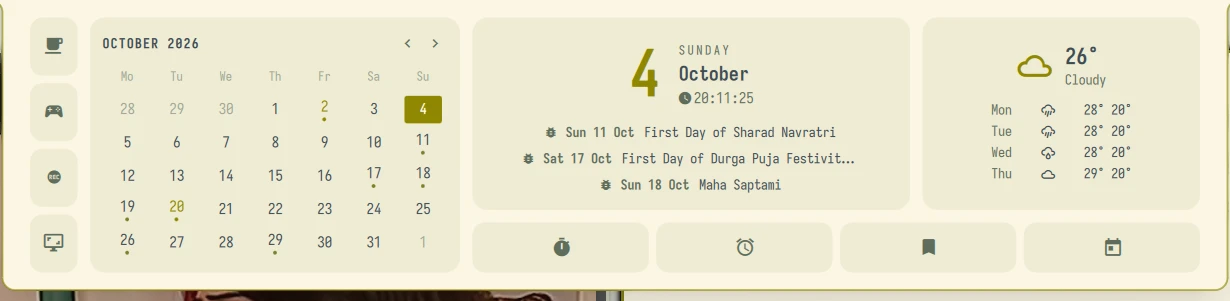
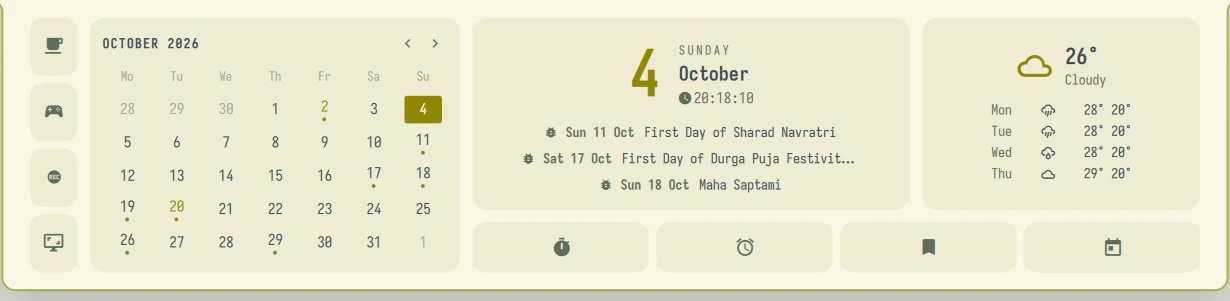
Power panel back to one row; short notifications keep the resting width; clock panel screenshot on a blank screen

diff --git a/dots/.config/quickshell/PowerPanel.qml b/dots/.config/quickshell/PowerPanel.qml
@@ -2,7 +2,6 @@
 // (sleep, then hibernate later when Settings > Power says so); Hibernate shows only when it is set up.
 // Lock = the Quickshell lock screen (Lock.qml). Log out / Reboot / Power off need a second
 // click within 3 s (the button turns red and says "Confirm?"). done() closes the notch after an action.
-// Second row: Keep awake and Game mode switches (Modes.qml), LED keys: the LED is lit while on.
 import QtQuick
 import Quickshell
 import Quickshell.Io
@@ -85,63 +84,5 @@ Item {
                 }
             }
         }
-    }
-
-    // ---------- switches: keep awake, game mode ----------
-    Row {
-        id: modesRow
-        anchors.left: parent.left; anchors.leftMargin: 22
-        anchors.top: row.bottom; anchors.topMargin: 10
-        spacing: 10
-        Repeater {
-            model: [
-                { id: "awake", icon: "", name: "Keep awake", on: Modes.awake, toggle: () => Modes.setAwake(!Modes.awake) },
-                { id: "game",  icon: "", name: "Game mode",  on: Modes.game,  toggle: () => Modes.setGame(!Modes.game) }
-            ]
-            delegate: Rectangle {
-                id: sw
-                required property var modelData
-                width: row.btnW; height: 44; radius: 2
-                color: swHover.containsMouse ? Theme.raised : Theme.surface
-                border.width: 1; border.color: modelData.on ? Qt.alpha(Theme.coral, 0.6) : Theme.hover
-                Behavior on color { ColorAnimation { duration: 120 } }
-                KeyEdge { pressed: sw.modelData.on }
-                Row {
-                    anchors.centerIn: parent
-                    spacing: 10
-                    Rectangle {   // the LED
-                        anchors.verticalCenter: parent.verticalCenter
-                        width: 6; height: 6; radius: 1
-                        color: sw.modelData.on ? Theme.coral : Theme.raised
-                        Rectangle { visible: sw.modelData.on; anchors.fill: parent; anchors.margins: -2; radius: 2; z: -1; color: Qt.alpha(Theme.coral, 0.3) }
-                    }
-                    Text {
-                        anchors.verticalCenter: parent.verticalCenter
-                        text: sw.modelData.icon; color: sw.modelData.on ? Theme.coral : Theme.text
-                        font.family: Theme.font; font.pixelSize: 16
-                    }
-                    Text {
-                        anchors.verticalCenter: parent.verticalCenter
-                        text: sw.modelData.name; color: Theme.text
-                        font.family: Theme.font; font.pixelSize: 12; font.bold: true
-                    }
-                }
-                MouseArea {
-                    id: swHover
-                    anchors.fill: parent
-                    hoverEnabled: true
-                    cursorShape: Qt.PointingHandCursor
-                    onClicked: sw.modelData.toggle()
-                }
-            }
-        }
-    }
-    Text {
-        anchors.left: modesRow.right; anchors.leftMargin: 16
-        anchors.right: parent.right; anchors.rightMargin: 22
-        anchors.verticalCenter: modesRow.verticalCenter
-        wrapMode: Text.Wrap
-        text: "Keep awake: no lock, screen off or sleep until you turn it off.  Game mode: animations, blur, shadows and gaps off."
-        color: Theme.dim; font.family: Theme.font; font.pixelSize: 11
     }
 }

diff --git a/dots/.config/quickshell/Notch.qml b/dots/.config/quickshell/Notch.qml
@@ -75,14 +75,13 @@ Item {
     // makes the notch "breathe" a little wider while it shows
     // ... but never wider than the screen (a rotated / small screen): the panel's own layout shrinks with it
     readonly property int panelW: loaded === "" || !panelItem || !(panelItem.wantWidth > 0) ? restWidth : Math.min(maxWidth, Math.max(restWidth, panelItem.wantWidth))
-    // inline notification (line breaks -> " · "): the notch is as wide as the text needs (380 px up to 200 px wider than
-    // at rest) and TALLER for a
+    // inline notification (line breaks -> " · "): the notch is as wide as the text needs, never narrower than at rest, up to 200 px wider and TALLER for a
     // long text (wraps to at most 3 lines) instead of ever wider
     readonly property string notifText: Notifs.current
         ? ((Notifs.current.summary || "") + (Notifs.current.body ? "  " + Notifs.current.body : "")).replace(/<[^>]*>/g, "").replace(/\s*\n+\s*/g, "  ·  ")
         : ""
     TextMetrics { id: nfMetrics; font.family: Theme.font; font.pixelSize: 12; text: root.notifText }
-    readonly property int notifExtra: Math.max(380 - restWidth, Math.min(200, Math.ceil(20 + 18 + 10 + nfApp.implicitWidth + 10
+    readonly property int notifExtra: Math.max(0, Math.min(200, Math.ceil(20 + 18 + 10 + nfApp.implicitWidth + 10
         + nfMetrics.advanceWidth + (Notifs.unread > 1 ? 40 : 0) + 24 - restWidth)))
     // the text's room (the notch at its target width, minus clock, icon, app name, +N) and how many lines it needs there
     readonly property real nfTextW: Math.max(120, restWidth + notifExtra - 20 - 24 - 18 - nfApp.implicitWidth - (Notifs.unread > 1 ? 50 : 0) - 20)

diff --git a/dots/.config/quickshell/Theme.qml b/dots/.config/quickshell/Theme.qml
@@ -46,7 +46,7 @@ Singleton {
     readonly property int feedbackTime:   1500   // inline key feedback (volume, brightness, ...) stays this long
     // full notch height while each panel is open (logical px); width = the resting notch
     readonly property var panelHeight: ({
-        battery: 96, power: 130, usage: 360, media: 150, notifications: 220, system: 440, tailscale: 310, launcher: 460, bluetooth: 260, wifi: 260, volume: 270, clock: 232, clockTimer: 232, clockAlarm: 232, clockReminder: 232, clockEvent: 232
+        battery: 96, power: 76, usage: 360, media: 150, notifications: 220, system: 440, tailscale: 310, launcher: 460, bluetooth: 260, wifi: 260, volume: 270, clock: 232, clockTimer: 232, clockAlarm: 232, clockReminder: 232, clockEvent: 232
     })
     // ---- notifications (Notifications.qml) ----
     readonly property int notifWidth:   380     // card width
